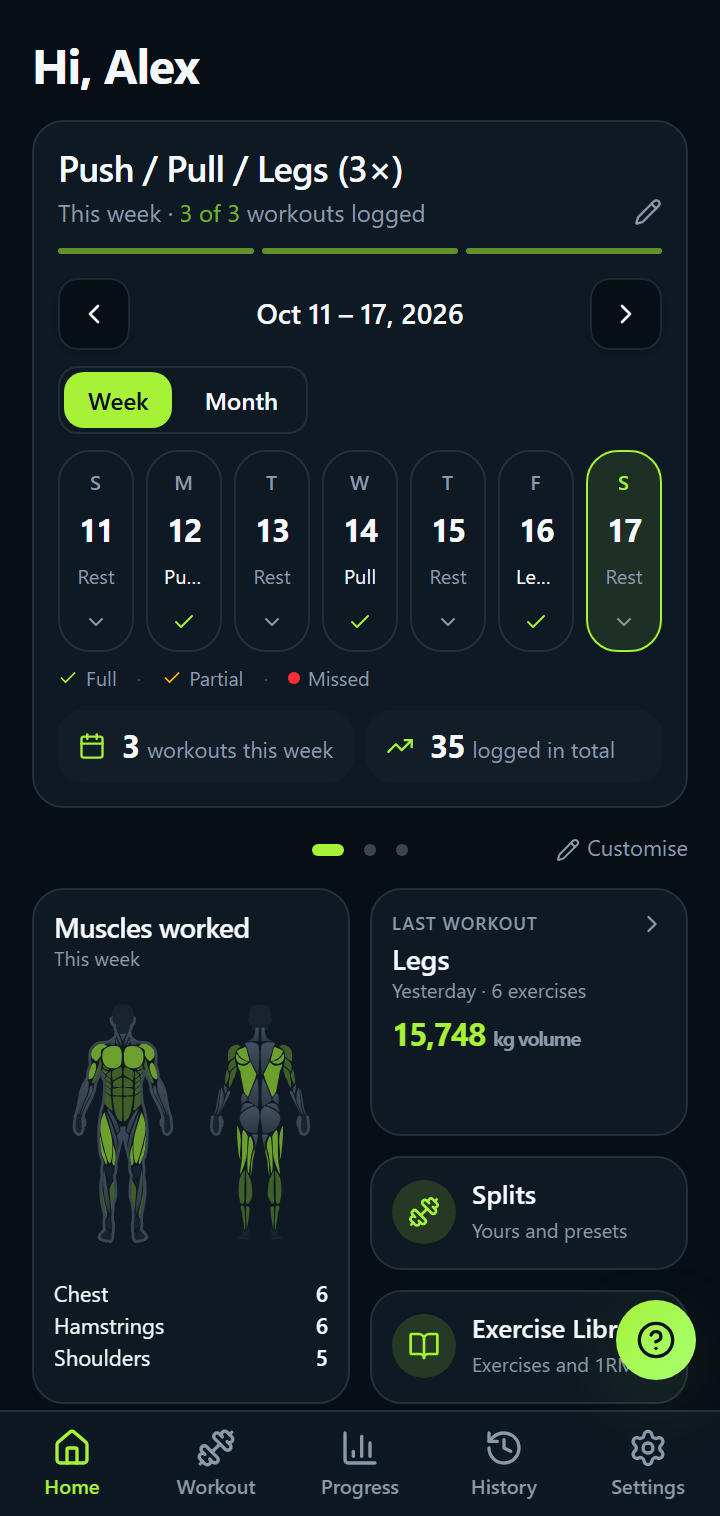
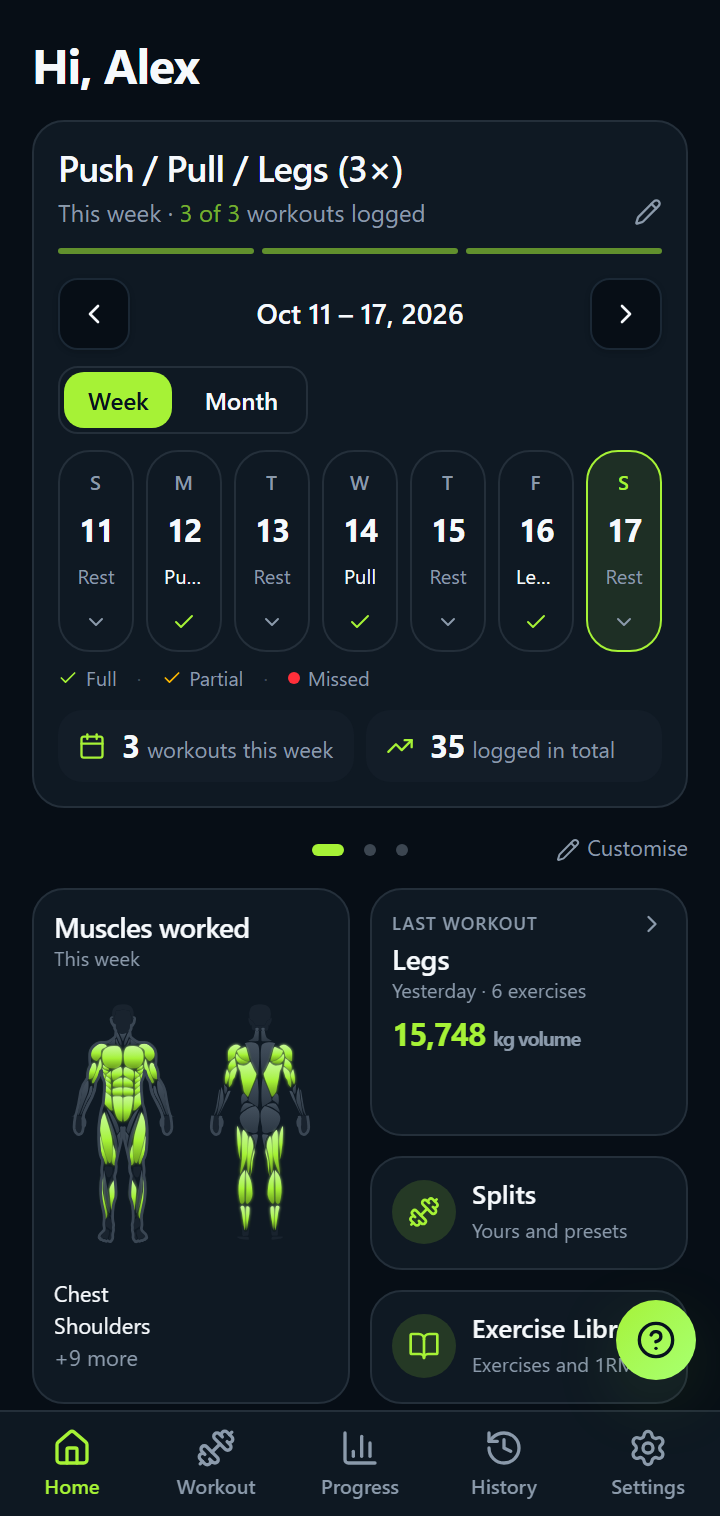
docs(site): more app screens for 2.0.1 (exercise page, customizable Home, colors, your data)
Four new screenshots with their own sections on Features and in the home
carousel, Muscles worked described as every muscle you trained, and alt
text corrected to match the current screens.

diff --git a/src/app/features/page.tsx b/src/app/features/page.tsx
@@ -1,6 +1,6 @@
 import type { Metadata } from "next";
 import { Container } from "@/components/Container";
-import { ContentSection, BulletList, Strong, TextLink } from "@/components/content";
+import { BulletList, Strong, TextLink } from "@/components/content";
 import { CtaBanner, HeroCta } from "@/components/CtaBanner";
 import { JsonLd } from "@/components/JsonLd";
 import { KeyFacts } from "@/components/KeyFacts";
@@ -132,21 +132,29 @@ export default function FeaturesPage() {
               muscles you worked this week on a body map, your last workout, an exercise chart, personal
               records, workout counts, body weight, Muscle Balance and volume per muscle.
             </p>
-            <p>
-              In the full version Home is customizable: drag cards into your own order, resize them by
-              dragging a corner, and add or remove cards.
-            </p>
+            <p>In the full version you arrange Home yourself (see below).</p>
           </FeatureBlock>
 
-          <FeatureBlock id="muscle-balance" title="Muscle Balance and muscles worked" shot="balance">
+          <FeatureBlock id="customizable-home" title="A Home you arrange yourself (full version)" shot="customise">
+            <p>
+              Tap Customise, or hold a card, to arrange Home your way: drag a card to move it, drag its
+              corner handle to make it small, wide, tall or large, remove the cards you don&apos;t need
+              and add others, such as a chart for the exercise you care about most. A dashed outline
+              shows where a card will land and at what size.
+            </p>
+            <p>Every card shows more as it gets bigger, and Reset puts the default cards back.</p>
+          </FeatureBlock>
+
+          <FeatureBlock id="muscle-balance" title="Muscle Balance and muscles worked" shot="balance" flip>
             <p>
               Muscle Balance shows your working sets this week for six body areas (chest, shoulders,
               arms, core, legs and back) against last week, and lists the areas you have not trained
               yet. Each set counts for the main muscle of the exercise.
             </p>
             <p>
-              Open any exercise to see its target muscles on a front and back body map, primary muscles
-              solid and secondary ones faded.
+              On Home, Muscles worked lights up every muscle you trained this week on a front and back
+              body map. Open any exercise to see its target muscles, primary muscles solid and secondary
+              ones faded.
             </p>
           </FeatureBlock>
 
@@ -234,24 +242,31 @@ export default function FeaturesPage() {
             </p>
             <p>
               Sort exercises A–Z or by the ones you did most recently, which also appear in a Recent
-              section with when you last did them. Open any exercise to see your last workout (sets,
-              best set and its 1RM), your records and the muscles it targets. The library works
-              offline, like the rest of the app.
+              section with when you last did them. The library works offline, like the rest of the app.
             </p>
           </FeatureBlock>
 
-          <ContentSection id="make-it-yours" title="Make it yours" className="max-w-3xl">
-            <p className="text-[15px] leading-relaxed text-muted sm:text-base">
-              Light, dark or follow your phone&apos;s theme. In the full version, pick one of seven accent
-              colors. Settings has a search box that finds any setting.
+          <FeatureBlock id="exercise-page" title="Exercise pages: form, last workout and records" shot="exercise" flip>
+            <p>
+              Open any exercise, from the library, your split or a workout, to see its demonstration,
+              your last workout (sets, best set and its estimated 1RM) and your records: heaviest
+              weight, most reps, best session volume and best estimated 1RM, each with its date.
             </p>
-          </ContentSection>
+            <p>
+              Below them, the muscles the exercise targets on a front and back body map, and written
+              cues for good form.
+            </p>
+          </FeatureBlock>
 
-          <ContentSection
-            id="your-data"
-            title="Your data: offline, private, and portable"
-            className="max-w-3xl"
-          >
+          <FeatureBlock id="make-it-yours" title="Make it yours" shot="colors">
+            <p>
+              Light, dark or follow your phone&apos;s theme. In the full version, pick your accent color:
+              it recolors buttons, charts, the body map and highlights, in light and dark theme.
+            </p>
+            <p>Settings has a search box that finds any setting, such as &ldquo;theme&rdquo; or &ldquo;backup&rdquo;.</p>
+          </FeatureBlock>
+
+          <FeatureBlock id="your-data" title="Your data: offline, private, and portable" shot="data" flip>
               <BulletList>
                 <li>
                   <Strong>Offline:</Strong> logging, history, and the exercise library work without a
@@ -273,7 +288,7 @@ export default function FeaturesPage() {
                   <Strong>Reset All Data:</Strong> clears what IronBuddy stores on the device.
                 </li>
             </BulletList>
-          </ContentSection>
+          </FeatureBlock>
 
           <CtaBanner />
 

diff --git a/src/lib/content.ts b/src/lib/content.ts
@@ -79,7 +79,7 @@ export const features: Array<{
 ];
 
 /**
- * App screenshots in public/screenshots/ (WebP, recorded 13 October 2026 from app 2.0 with sample data). `carousel: true`
+ * App screenshots in public/screenshots/ (WebP, recorded 13 October 2026 from app 2.0.1 with sample data). `carousel: true`
  * marks the current set: it drives the home page carousel, the app's structured data and the image sitemap.
  * Keep the array in carousel order.
  *
@@ -110,7 +110,7 @@ export const screenshots = [
     id: "splits",
     file: "ironbuddy-training-splits.webp",
     label: "Training Splits",
-    alt: "IronBuddy training split planner with an active Full Body split and templates like Push/Pull/Legs, Upper/Lower and PHUL",
+    alt: "IronBuddy training split planner: Push/Pull/Legs (3×) active among presets like Full Body 3× and Upper/Lower, with filters",
     width: 720,
     height: 1516,
     carousel: true,
@@ -119,7 +119,7 @@ export const screenshots = [
     id: "progress",
     file: "ironbuddy-training-volume.webp",
     label: "Training Volume",
-    alt: "IronBuddy training volume charts: total workout volume and bench press volume over time",
+    alt: "IronBuddy training volume chart: total volume per workout over 12 weeks and the average per workout",
     width: 720,
     height: 1516,
     carousel: true,
@@ -128,7 +128,7 @@ export const screenshots = [
     id: "strength",
     file: "ironbuddy-estimated-1rm-chart.webp",
     label: "1RM Chart",
-    alt: "IronBuddy progressive overload tracking: 1RM chart for the deadlift rising over two years",
+    alt: "IronBuddy progressive overload tracking: hack squat estimated 1RM chart, up 35 kg since the first session",
     width: 720,
     height: 1516,
     carousel: true,
@@ -174,6 +174,42 @@ export const screenshots = [
     file: "ironbuddy-share-card.webp",
     label: "Share Cards",
     alt: "IronBuddy share card: a new hack squat personal record as an image to share",
+    width: 720,
+    height: 1516,
+    carousel: true,
+  },
+  {
+    id: "exercise",
+    file: "ironbuddy-exercise-page.webp",
+    label: "Exercise Page",
+    alt: "IronBuddy exercise page for the leverage chest press: form demo, last workout and personal records",
+    width: 720,
+    height: 1516,
+    carousel: true,
+  },
+  {
+    id: "customise",
+    file: "ironbuddy-customizable-home.webp",
+    label: "Customizable Home",
+    alt: "IronBuddy customizable home screen: cards with remove and resize handles, Add, Reset and Done",
+    width: 720,
+    height: 1516,
+    carousel: true,
+  },
+  {
+    id: "colors",
+    file: "ironbuddy-accent-colors.webp",
+    label: "Accent Colors",
+    alt: "IronBuddy appearance settings: dark theme and accent colors, with Gold picked and saved",
+    width: 720,
+    height: 1516,
+    carousel: true,
+  },
+  {
+    id: "data",
+    file: "ironbuddy-offline-data.webp",
+    label: "Your Data",
+    alt: "IronBuddy data settings: Android backup, JSON export and import, undo import and a split plan PDF",
     width: 720,
     height: 1516,
     carousel: true,

diff --git a/src/lib/pages.ts b/src/lib/pages.ts
@@ -53,6 +53,10 @@ const screenshotImages = [
   "/screenshots/ironbuddy-muscle-balance.webp",
   "/screenshots/ironbuddy-workout-summary.webp",
   "/screenshots/ironbuddy-share-card.webp",
+  "/screenshots/ironbuddy-exercise-page.webp",
+  "/screenshots/ironbuddy-customizable-home.webp",
+  "/screenshots/ironbuddy-accent-colors.webp",
+  "/screenshots/ironbuddy-offline-data.webp",
 ] as const;
 
 export const pages = {
